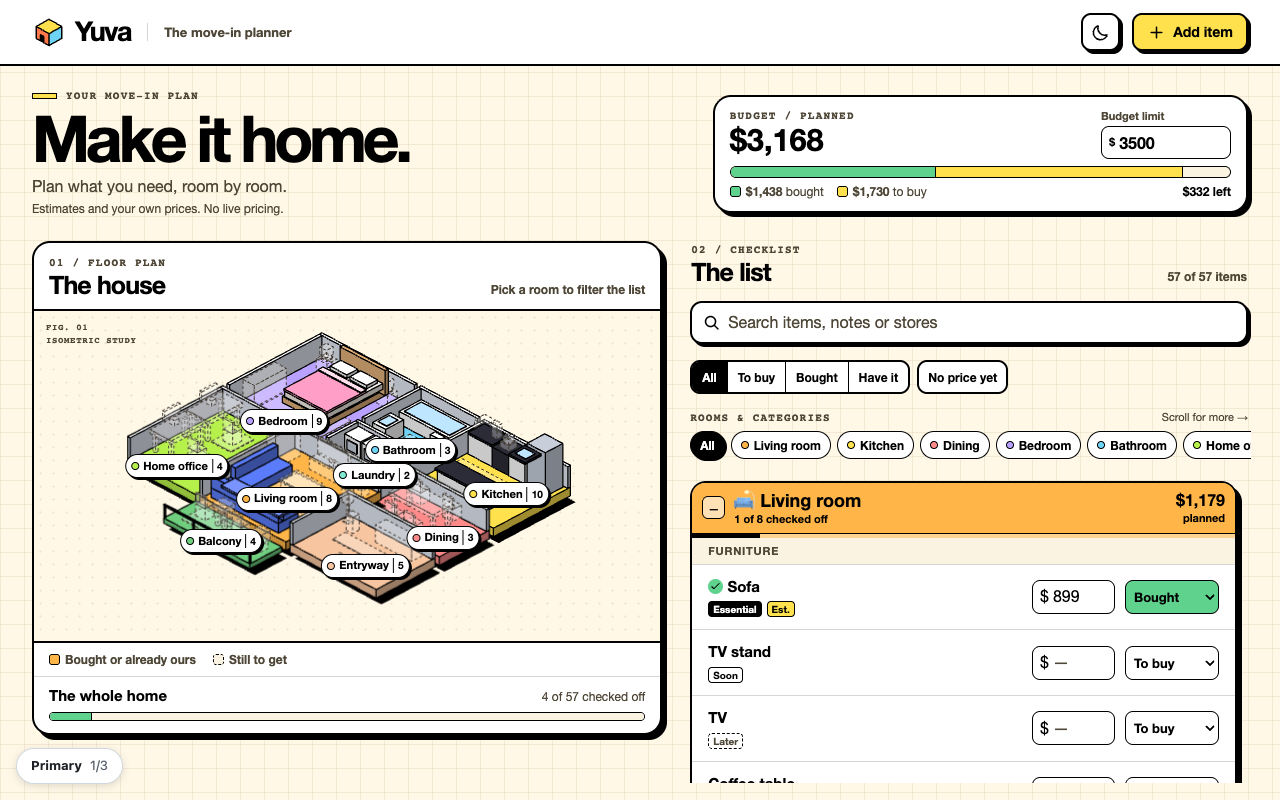
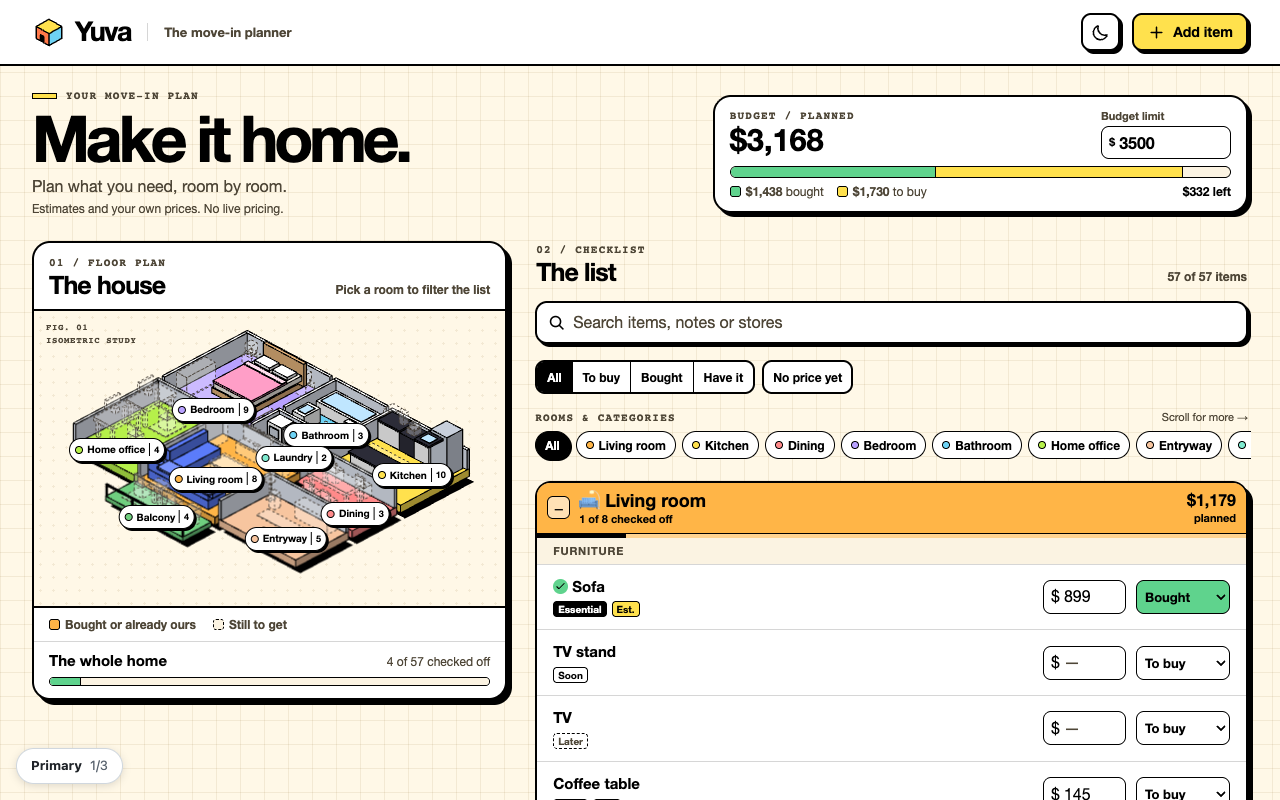
Let the Primary checklist scroll with the page

diff --git a/labs/classic/index.js b/labs/classic/index.js
@@ -105,7 +105,7 @@ export function mount(root) {
               ${categories.map(cat => `<button type="button" class="chip" data-cat="${cat.id}" style="--c:${cat.color}"><i></i>${cat.name}</button>`).join("")}
             </div>
           </div>
-          <div class="results" role="region" aria-label="Checklist items" tabindex="0"></div>
+          <div class="results" role="region" aria-label="Checklist items" tabindex="-1"></div>
         </section>
       </div>
     </main>
@@ -132,6 +132,7 @@ export function mount(root) {
   const search = get("[data-search]");
   const budgetInput = get("[data-budget]");
   const results = get(".results");
+  const listTitle = get("#classic-list-title");
   const dialog = get(".add-dialog");
   const form = get(".add-form");
   const warning = get(".storage-warning");
@@ -165,7 +166,11 @@ export function mount(root) {
     }
     renderFilters();
   }
-  const updateHouse = mountHouse(get(".model"), toggle);
+  const updateHouse = mountHouse(get(".model"), id => {
+    const listIsAbove = listTitle.getBoundingClientRect().top < 0;
+    toggle(id);
+    if (listIsAbove) listTitle.scrollIntoView({ block: "start" });
+  });
 
   function renderBudget() {
     const { planned, spent, toBuy } = totals(items);
@@ -188,7 +193,7 @@ export function mount(root) {
     meter.setAttribute("aria-label", `${money(spent)} bought, ${money(toBuy)} to buy. ${balance.textContent}.`);
   }
 
-  function renderList(resetScroll = false) {
+  function renderList() {
     const query = search.value.trim().toLocaleLowerCase();
     const visible = items.filter(item =>
       (!selected.size || selected.has(item.cat)) &&
@@ -199,7 +204,6 @@ export function mount(root) {
     text("[data-count]", `${visible.length} of ${items.length} items`);
     const active = doc.activeElement;
     const retain = results.contains(active) && active.dataset.act ? active.dataset : null;
-    const scrollPosition = results.scrollTop;
     results.innerHTML = categories.map(cat => {
       const current = visible.filter(item => item.cat === cat.id);
       if (!current.length) return "";
@@ -222,7 +226,6 @@ export function mount(root) {
           ${current.filter(item => item.sub === sub).map(row).join("")}`).join("") : ""}</div></article>`;
     }).join("") || `<div class="empty"><h3>No matching items</h3><p>Try a different search or clear the filters.</p>
       <button type="button" class="button" data-act="clear">Clear filters</button></div>`;
-    results.scrollTop = resetScroll ? 0 : scrollPosition;
     if (retain) {
       const next = [...results.querySelectorAll("[data-act]")].find(node => node.dataset.act === retain.act && node.dataset.id === retain.id);
       (next ?? results).focus({ preventScroll: true });
@@ -258,10 +261,10 @@ export function mount(root) {
     }
     for (const button of root.querySelectorAll("[data-status-filter]")) button.setAttribute("aria-pressed", button.dataset.statusFilter === status);
     get("[data-missing]").setAttribute("aria-pressed", missingOnly);
-    render(true);
+    render();
   }
 
-  function render(resetScroll = false, patchRow) {
+  function render(patchRow) {
     updateHouse(selected, items);
     const subset = selected.size ? items.filter(item => selected.has(item.cat)) : items;
     const { done } = totals(subset);
@@ -272,12 +275,12 @@ export function mount(root) {
     progress.value = done;
     renderBudget();
     if (patchRow) patchRow();
-    else renderList(resetScroll);
+    else renderList();
   }
 
   search.addEventListener("input", () => {
     collapsed.clear();
-    renderList(true);
+    renderList();
   });
   budgetInput.addEventListener("change", () => {
     if (!budgetInput.reportValidity()) return;
@@ -339,7 +342,7 @@ export function mount(root) {
     }
 
     // Keep the native controls mounted while the edited price commits on blur.
-    render(false, () => {
+    render(() => {
       const rowNode = target.closest(".item-row");
       rowNode.querySelector(".row-marker").innerHTML = marker(item.status);
       if (!item.est) rowNode.querySelector(".estimate-tag")?.remove();
@@ -383,8 +386,10 @@ export function mount(root) {
     status = "all";
     missingOnly = false;
     renderFilters();
-    results.focus({ preventScroll: true });
-    results.scrollIntoView({ block: "nearest" });
+    const newRow = results.querySelector(`[data-act="price"][data-id="${item.id}"]`).closest(".item-row");
+    newRow.tabIndex = -1;
+    newRow.focus({ preventScroll: true });
+    newRow.scrollIntoView({ block: "nearest" });
   });
   renderFilters();
 }

diff --git a/labs/classic/style.css b/labs/classic/style.css
@@ -149,7 +149,10 @@ body:has(> .yuva-classic) { margin: 0; }
 .yuva-classic .budget-figures strong { margin-inline-start: auto; color: var(--ink); }
 .yuva-classic .budget-figures .over { color: var(--on-accent); background: var(--danger); padding: 0 5px; border-radius: 3px; }
 .yuva-classic .key { display: inline-block; width: 11px; height: 11px; border: 1px solid var(--ink); border-radius: 3px; margin-right: 5px; vertical-align: -1px; }
-.yuva-classic .workspace { display: grid; grid-template-columns: minmax(0, 1.13fr) minmax(0, 1fr); align-items: start; gap: 28px; }
+.yuva-classic .workspace { display: grid; grid-template-columns: minmax(0, 2fr) minmax(0, 3fr); align-items: start; gap: 28px; }
+@media (min-width: 961px) and (min-height: 600px) {
+  .yuva-classic .plan { position: sticky; top: 16px; }
+}
 .yuva-classic .panel-heading { display: flex; gap: 10px; align-items: end; justify-content: space-between; padding: 13px 15px 11px; }
 .yuva-classic .panel-heading h2 { font-size: 25px; line-height: 1.06; font-weight: 900; letter-spacing: -.035em; margin-top: 3px; }
 .yuva-classic .panel-hint { color: var(--muted); font-size: 12px; font-weight: 650; text-align: end; }
@@ -242,8 +245,8 @@ body:has(> .yuva-classic) { margin: 0; }
 .yuva-classic .chip { display: inline-flex; gap: 5px; align-items: center; min-height: 28px; padding-inline: 9px; border: 1.5px solid var(--ink); border-radius: var(--r-pill); background: var(--surface); font-size: 12px; font-weight: 750; white-space: nowrap; }
 .yuva-classic .chip[aria-pressed="true"] { background: var(--c); color: var(--on-accent); box-shadow: var(--sh-xs); }
 .yuva-classic .chip[data-cat="all"][aria-pressed="true"] { background: var(--ink); color: var(--surface); }
-.yuva-classic .results { max-height: max(256px, calc(100dvh - 494px)); overflow: auto; scrollbar-width: thin; padding: 4px 8px 8px 3px; margin: -4px -8px -8px -3px; scrollbar-gutter: stable; }
-.yuva-classic .results:focus-visible { outline-offset: -2px; }
+.yuva-classic .results { min-width: 0; }
+.yuva-classic :is(#classic-list-title, .item-row) { scroll-margin-block: 16px; }
 .yuva-classic .category { border: 2px solid var(--ink); border-radius: var(--r-cat); background: var(--surface); box-shadow: var(--sh-cat); margin: 0 0 20px; }
 .yuva-classic .category:last-child { margin-bottom: 0; }
 .yuva-classic .category-heading { background: var(--c); color: var(--on-accent); border-radius: 13px 13px 0 0; overflow: clip; }
@@ -292,7 +295,6 @@ body:has(> .yuva-classic) { margin: 0; }
 @media (max-width: 960px) {
   .yuva-classic .workspace { grid-template-columns: 1fr; gap: 26px; }
   .yuva-classic .sheet { max-width: 740px; }
-  .yuva-classic .results { max-height: none; overflow: visible; scrollbar-gutter: auto; }
   .yuva-classic .jump-to-list { display: inline-flex; align-items: center; min-height: 44px; margin-top: 5px; font-size: 14px; font-weight: 750; color: var(--ink); text-underline-offset: 3px; }
 }
 @media (max-width: 660px) {

diff --git a/README.md b/README.md
@@ -10,7 +10,7 @@
 
 | Version | What to try | Silent demo |
 | --- | --- | --- |
-| [**Primary**](https://hilalys.github.io/yuva/?v=primary) | Open the kitchen from the illustrated floor plan, mark the espresso machine bought, and add something of your own. | [Watch Primary (0:40)](https://hilalys.github.io/yuva/review/demos/yuva-primary.mp4) |
+| [**Primary**](https://hilalys.github.io/yuva/?v=primary) | Scroll the full-page checklist while the floor plan stays in view on desktop. Pick the kitchen and mark the espresso machine bought. | [Watch Primary (0:40)](https://hilalys.github.io/yuva/review/demos/yuva-primary.mp4) |
 | [**Modern**](https://hilalys.github.io/yuva/?v=modern) | Explore the same checklist and floor plan in a quieter layout. Mark an item “Have it” and see how it affects your budget. | [Watch Modern (0:40)](https://hilalys.github.io/yuva/review/demos/yuva-modern.mp4) |
 | [**Basic**](https://hilalys.github.io/yuva/?v=basic) | Choose a home size, household size, and whether kids or pets are moving in. Yuva generates a checklist without pricing or a floor plan. | [Watch Basic (0:40)](https://hilalys.github.io/yuva/review/demos/yuva-basic.mp4) |
 
